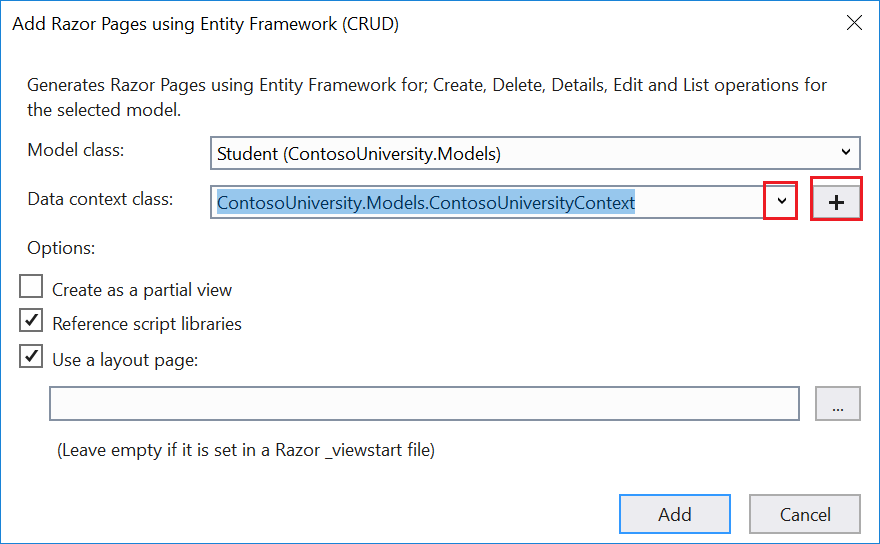
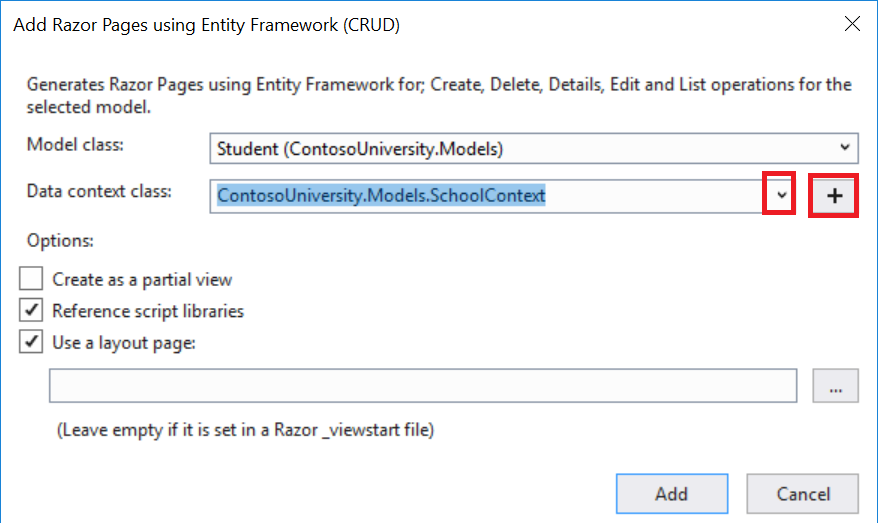
work

diff --git a/aspnetcore/data/ef-rp/intro/samples/cu21/Program.cs b/aspnetcore/data/ef-rp/intro/samples/cu21/Program.cs
@@ -1,4 +1,7 @@
-using ContosoUniversity.Data;                     // DbInitializer
+#define Migrate
+#if Migrate
+
+using ContosoUniversity.Data;                     // DbInitializer
 using ContosoUniversity.Models;                   // SchoolContext
 using Microsoft.AspNetCore;
 using Microsoft.AspNetCore.Hosting;
@@ -40,3 +43,48 @@ namespace ContosoUniversity
                 .UseStartup<Startup>();
     }
 }
+#else
+#region snippet
+#endregion
+using ContosoUniversity.Data;                     // DbInitializer
+using ContosoUniversity.Models;                   // SchoolContext
+using Microsoft.AspNetCore;
+using Microsoft.AspNetCore.Hosting;
+using Microsoft.EntityFrameworkCore;              // Migrate
+using Microsoft.Extensions.DependencyInjection;   // CreateScope
+using Microsoft.Extensions.Logging;
+using System;
+
+namespace ContosoUniversity
+{
+    public class Program
+    {
+        public static void Main(string[] args)
+        {
+            var host = CreateWebHostBuilder(args).Build();
+
+            using (var scope = host.Services.CreateScope())
+            {
+                var services = scope.ServiceProvider;
+
+                try
+                {
+                    var context = services.GetRequiredService<SchoolContext>();
+                    DbInitializer.Initialize(context);
+                }
+                catch (Exception ex)
+                {
+                    var logger = services.GetRequiredService<ILogger<Program>>();
+                    logger.LogError(ex, "An error occurred seeding the DB.");
+                }
+            }
+
+            host.Run();
+        }
+
+        public static IWebHostBuilder CreateWebHostBuilder(string[] args) =>
+            WebHost.CreateDefaultBuilder(args)
+                .UseStartup<Startup>();
+    }
+}
+#endif

diff --git a/aspnetcore/data/ef-rp/intro.md b/aspnetcore/data/ef-rp/intro.md
@@ -169,7 +169,6 @@ Complete the **Add Razor Pages using Entity Framework (CRUD)** dialog:
 
 See [Scaffold the movie model](xref:tutorials/razor-pages/model?view=aspnetcore-2.1#scaffold-the-movie-model) if you have a problem with the preceding step.
 
-
 <a name="pmc"></a>
 
 ## Perform initial migration
@@ -252,7 +251,6 @@ Update *SchoolContext.cs* with the following code:
 
 The highlighted code:
 
-* Updates the `Student` to the plural `Students`.
 * Creates a [DbSet\<TEntity>](https://docs.microsoft.com/en-us/dotnet/api/microsoft.entityframeworkcore.dbset-1?view=efcore-2.1) property for each entity set. In EF Core terminology:
 
 * An entity set typically corresponds to a DB table.
@@ -266,25 +264,25 @@ The connection string specifies a SQL Server LocalDB DB. LocalDB is a lightweigh
 
 ## Add code to initialize the DB with test data
 
-EF Core creates an empty DB. In this section, a *Seed* method is written to populate it with test data.
+EF Core creates an empty DB. In this section, a *Initialize* method is written to populate it with test data.
 
 In the *Data* folder, create a new class file named *DbInitializer.cs* and add the following code:
 
 [!code-csharp[](intro/samples/cu/Data/DbInitializer.cs?name=snippet_Intro)]
 
-The code checks if there are any students in the DB. If there are no students in the DB, the DB is seeded with test data. It loads test data into arrays rather than `List<T>` collections to optimize performance.
+The code checks if there are any students in the DB. If there are no students in the DB, the DB is initialized with test data. It loads test data into arrays rather than `List<T>` collections to optimize performance.
 
 The `EnsureCreated` method automatically creates the DB for the DB context. If the DB exists, `EnsureCreated` returns without modifying the DB.
 
 In *Program.cs*, modify the `Main` method to do the following:
 
 * Get a DB context instance from the dependency injection container.
-* Call the seed method, passing to it the context.
+* Call the `Initialize` method, passing to it the context.
 * Dispose the context when the seed method completes.
 
 The following code shows the updated *Program.cs* file.
 
-[!code-csharp[](intro/samples/cu/ProgramOriginal.cs?name=snippet)]
+[!code-csharp[](intro/samples/cu21/Program.cs?name=snippet)]
 
 The first time the app is run, the DB is created and seeded with test data. When the data model is updated:
 
@@ -293,54 +291,6 @@ The first time the app is run, the DB is created and seeded with test data. When
 * Run the app and a new seeded DB is created.
 
 In later tutorials, the DB is updated when the data model changes, without deleting and re-creating the DB.
-
-<a name="pmc"></a>
-
-## Add scaffold tooling
-
-In this section, the Package Manager Console (PMC) is used to add the Visual Studio web code generation package. This package is required to run the scaffolding engine.
-
-From the **Tools** menu, select **NuGet Package Manager** > **Package Manager Console**.
-
-In the Package Manager Console (PMC), enter the following commands:
-
-```powershell
-Install-Package Microsoft.VisualStudio.Web.CodeGeneration.Design
-Install-Package Microsoft.VisualStudio.Web.CodeGeneration.Utils
-```
-
-The previous command adds the NuGet packages to the *.csproj file:
-
-[!code-xml[](intro/samples/cu/ContosoUniversity1_csproj.txt?highlight=7-8)]
-
-<a name="scaffold"></a>
-
-## Scaffold the model
-
-* Open a command window in the project directory (The directory that contains the *Program.cs*, *Startup.cs*, and *.csproj* files).
-* Run the following commands:
-
- ```console
-dotnet restore
-dotnet tool install --global dotnet-aspnet-codegenerator --version 2.1.0
-dotnet aspnet-codegenerator razorpage -m Student -dc SchoolContext -udl -outDir Pages\Students --referenceScriptLibraries
- ```
-
-If you get the error:
-
-  ``` console
-No executable found matching command "dotnet-aspnet-codegenerator"
-  ```
-
-Open a command window in the project directory (The directory that contains the *Program.cs*, *Startup.cs*, and *.csproj* files).
-
-Build the project. The build generates errors like the following:
-
- `1>Pages\Students\Index.cshtml.cs(26,38,26,45): error CS1061: 'SchoolContext' does not contain a definition for 'Student'`
-
- Globally change `_context.Student` to `_context.Students` (that is, add an "s" to `Student`). 7 occurrences are found and updated. We hope to fix [this bug](https://github.com/aspnet/Scaffolding/issues/633) in the next release.
-
-[!INCLUDE [model4tbl](../../includes/RP/model4tbl.md)]
 
  <a name="test"></a>
 
